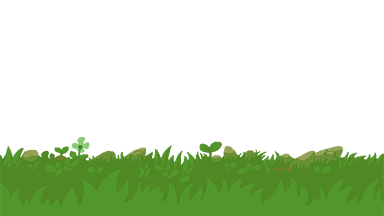
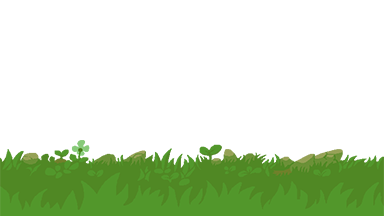
Cleaned up sprites,. added 3 monsters, basic collision and damage animations

Changed region(s): [[0.0, 0.6389, 1.0, 0.8056]]

diff --git a/lib/game/enemy.dart b/lib/game/enemy.dart
@@ -5,20 +5,69 @@ import 'package:flame/spritesheet.dart';
 import 'package:flutter/material.dart';
 import 'package:monster_escape/util/constants.dart';
 
+enum EnemyType { Tyran1, Tyran2, Flying1 }
+
+class EnemyData {
+  final String imageName;
+  final int textureWidth;
+  final int textureHeight;
+  final int nColumns;
+  final int nRows;
+  final int speed;
+
+  EnemyData({
+    required this.imageName,
+    required this.textureWidth,
+    required this.textureHeight,
+    required this.nColumns,
+    required this.nRows,
+    required this.speed,
+  });
+}
+
 class Enemy extends AnimationComponent {
-  double enemySpeed = 200;
-  late anim.Animation _enemyRunAnimation;
-  Enemy() : super.empty() {
-    final enemySpriteSheet = SpriteSheet(
-      imageName: 'enemy/enemy1/spritesheet.png',
+  static Map<EnemyType, EnemyData> _enemyDetails = {
+    EnemyType.Tyran1: EnemyData(
+      imageName: 'enemy/enemy1.png',
       textureWidth: 128,
       textureHeight: 76,
-      columns: 8,
-      rows: 1,
+      nColumns: 8,
+      nRows: 1,
+      speed: 250,
+    ),
+    EnemyType.Tyran2: EnemyData(
+      imageName: 'enemy/enemy2.png',
+      textureWidth: 128,
+      textureHeight: 76,
+      nColumns: 8,
+      nRows: 1,
+      speed: 250,
+    ),
+    EnemyType.Flying1: EnemyData(
+      imageName: 'enemy/enemy3.png',
+      textureWidth: 128,
+      textureHeight: 76,
+      nColumns: 5,
+      nRows: 1,
+      speed: 250,
+    ),
+  };
+  EnemyData enemyData = _enemyDetails[EnemyType.Tyran1] as EnemyData;
+
+  Enemy(EnemyType enemyType) : super.empty() {
+    enemyData = _enemyDetails[enemyType] as EnemyData;
+
+    final enemySpriteSheet = SpriteSheet(
+      imageName: enemyData.imageName,
+      textureWidth: enemyData.textureWidth,
+      textureHeight: enemyData.textureHeight,
+      columns: enemyData.nColumns,
+      rows: enemyData.nRows,
     );
 
-    _enemyRunAnimation =
-        enemySpriteSheet.createAnimation(0, from: 0, to: 7, stepTime: 0.15);
+    late anim.Animation _enemyRunAnimation;
+    _enemyRunAnimation = enemySpriteSheet.createAnimation(0,
+        from: 0, to: (enemyData.nColumns - 1), stepTime: 0.15);
 
     this.animation = _enemyRunAnimation;
   }
@@ -27,18 +76,26 @@ class Enemy extends AnimationComponent {
   void resize(Size size) {
     super.resize(size);
 
-    this.height = size.width / 6;
-    this.width = size.width / 4;
+    double scaleWidth = (size.width / 5 / enemyData.textureWidth);
+    double scaleHeight = (size.width / 7 / enemyData.textureWidth);
+
+    this.height = enemyData.textureHeight * scaleWidth;
+    this.width = enemyData.textureWidth * scaleWidth;
+
     this.x = size.width + this.width;
 
-    // ground is 32px tall
-    // y = size.height - 32 - height + 10;
-    y = size.height - groundHeight - height;
+    y = size.height - groundHeight - this.height;
   }
 
   @override
   void update(double t) {
     super.update(t);
-    this.x -= enemySpeed * t;
+    this.x -= enemyData.speed * t;
+  }
+
+  @override
+  bool destroy() {
+    // Enemy can be destroyed once it goes off screen
+    return (this.x < (-this.width));
   }
 }

diff --git a/lib/game/player.dart b/lib/game/player.dart
@@ -1,7 +1,9 @@
+import 'dart:async';
 import 'dart:ui';
 import 'package:flame/components/animation_component.dart';
 import 'package:flame/animation.dart' as anim;
 import 'package:flame/spritesheet.dart';
+import 'package:flame/time.dart';
 import 'package:flutter/material.dart';
 import 'package:monster_escape/util/constants.dart';
 
@@ -9,22 +11,29 @@ class Player extends AnimationComponent {
   late anim.Animation _playerRunAnimation;
   late anim.Animation _playerHitAnimation;
   late anim.Animation _playerJumpAnimation;
+  late Size size;
+  late bool _isHit;
+  late Timer _timer;
 
   Player() : super.empty() {
     final playerSpriteSheet = SpriteSheet(
-      imageName: 'players/spritesheet.png',
+      imageName: 'players/player1.png',
       textureWidth: 72,
       textureHeight: 72,
-      columns: 14,
+      columns: 17,
       rows: 1,
     );
     _playerRunAnimation =
         playerSpriteSheet.createAnimation(0, from: 6, to: 13, stepTime: 0.15);
-    _playerHitAnimation =
-        playerSpriteSheet.createAnimation(0, from: 0, to: 5, stepTime: 0.1);
     _playerJumpAnimation =
         playerSpriteSheet.createAnimation(0, from: 0, to: 5, stepTime: 0.3);
-    animation = _playerRunAnimation;
+    _playerHitAnimation =
+        playerSpriteSheet.createAnimation(0, from: 14, to: 16, stepTime: 0.25);
+    this.animation = _playerRunAnimation;
+
+    this._timer = Timer(30, callback: () {
+      _playerRunAnimation;
+    });
   }
 
   @override
@@ -33,8 +42,9 @@ class Player extends AnimationComponent {
     // 8 = number of players that can fit horizontally on screen
     this.height = this.width = size.width / 8;
     this.x = this.width;
-    y = size.height - groundHeight - height + 10;
+    y = size.height - groundHeight - this.height;
     playerMaxY = y;
+    this.size = size;
   }
 
   @override
@@ -49,6 +59,8 @@ class Player extends AnimationComponent {
       playerSpeedY = 0.0;
       animation = _playerRunAnimation;
     }
+
+    _timer.update(t);
   }
 
   bool checkFloor() {
@@ -59,14 +71,16 @@ class Player extends AnimationComponent {
     animation = _playerRunAnimation;
   }
 
-  void playerHit() {
-    animation = _playerHitAnimation;
-  }
-
   void playerJump() {
     if (checkFloor()) {
       animation = _playerJumpAnimation;
-      playerSpeedY = -550;
+      playerSpeedY = -(playerMaxY * 2);
+      debugPrint(playerSpeedY.toString());
     }
+  }
+
+  void playerHit() {
+    this.animation = _playerHitAnimation;
+    _timer.start();
   }
 }

diff --git a/lib/game/game.dart b/lib/game/game.dart
@@ -9,12 +9,14 @@ import 'package:flame/text_config.dart';
 import 'package:flutter/cupertino.dart';
 import 'package:monster_escape/game/enemy.dart';
 import 'package:monster_escape/game/player.dart';
+import 'package:monster_escape/util/enemyEvents.dart';
 
 class MainGame extends BaseGame with TapDetector {
   late Player _player;
   late ParallaxComponent _parallaxComponent;
   late ParallaxComponent _parallaxForeground;
   late TextComponent _scoreText;
+  late EnemyEvents _enemyManager;
   late int score;
 
   MainGame() {
@@ -38,14 +40,15 @@ class MainGame extends BaseGame with TapDetector {
       layerDelta: Offset(20, 0),
     );
 
+    _enemyManager = EnemyEvents();
+    add(_enemyManager);
     add(_parallaxComponent);
-    add(_player);
-    var enemy = Enemy();
-    add(enemy);
     add(_parallaxForeground);
+    add(_player);
+    //var enemy = Enemy(EnemyType.Tyran2);
+    //add(enemy);
 
     score = 0;
-
     _scoreText = TextComponent(
       score.toString(),
       config: TextConfig(
@@ -59,7 +62,6 @@ class MainGame extends BaseGame with TapDetector {
 
   @override
   void resize(Size size) {
-    // TODO: implement resize
     super.resize(size);
     _scoreText.setByPosition(
         Position(((size.width / 2) - (_scoreText.width / 2)), 15));
@@ -77,5 +79,11 @@ class MainGame extends BaseGame with TapDetector {
     score += (60 * t).toInt();
     _scoreText.text = (score.toString().replaceAllMapped(
         new RegExp(r'(\d{1,3})(?=(\d{3})+(?!\d))'), (Match m) => "${m[1]},"));
+
+    components.whereType<Enemy>().forEach((enemy) {
+      if (_player.distance(enemy) < 80) {
+        _player.playerHit();
+      }
+    });
   }
 }

diff --git a/lib/util/enemyEvents.dart b/lib/util/enemyEvents.dart
@@ -1,0 +1,42 @@
+import 'dart:math';
+import 'dart:ui';
+import 'package:flame/components/component.dart';
+import 'package:flame/components/mixins/has_game_ref.dart';
+import 'package:flame/time.dart';
+import 'package:monster_escape/game/enemy.dart';
+import 'package:monster_escape/game/game.dart';
+
+class EnemyEvents extends Component with HasGameRef<MainGame> {
+  Random _random = Random();
+  late Timer _timer = Timer(4, repeat: true, callback: () {});
+  int spawnRate = 0;
+
+  EnemyEvents() {
+    _timer = Timer(4, repeat: true, callback: () {
+      spawnEnemy();
+    });
+  }
+
+  void spawnEnemy() {
+    final randomNumber = _random.nextInt(EnemyType.values.length);
+    final randomEnemyType = EnemyType.values.elementAt(randomNumber);
+    final spawnedEnemy = Enemy(randomEnemyType);
+    gameRef.addLater(spawnedEnemy);
+  }
+
+  @override
+  void onMount() {
+    super.onMount();
+    _timer.start();
+  }
+
+  @override
+  void render(Canvas c) {}
+
+  @override
+  void update(double t) {
+    _timer.update(t);
+
+    var newSpawnRate = gameRef.score;
+  }
+}
